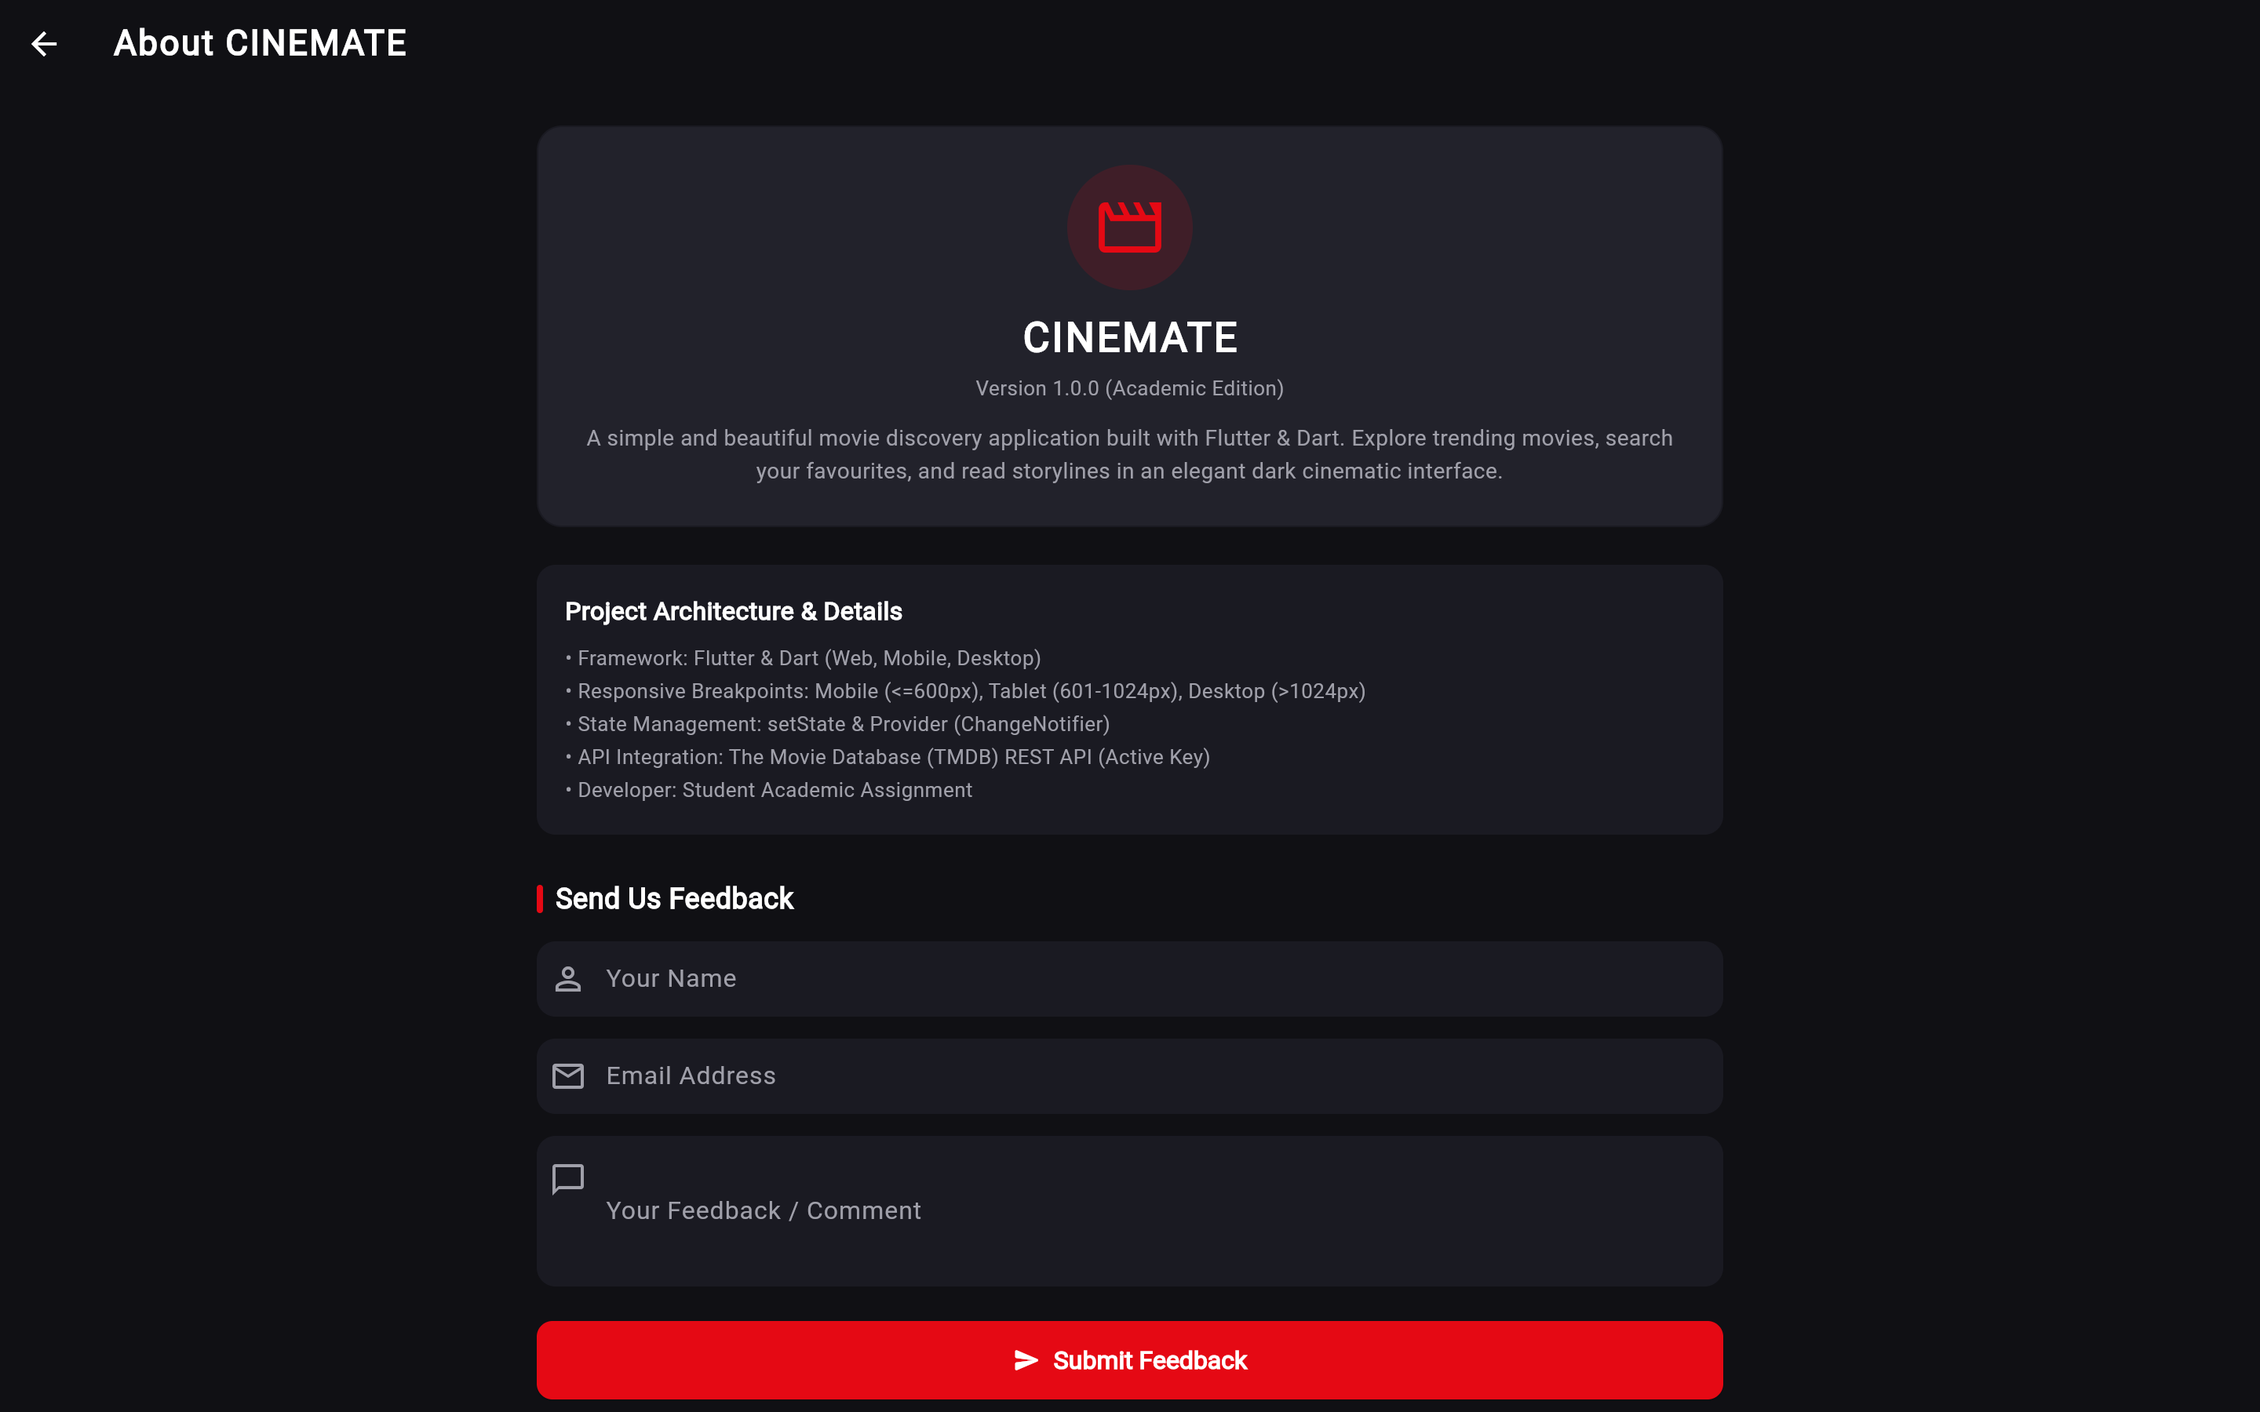
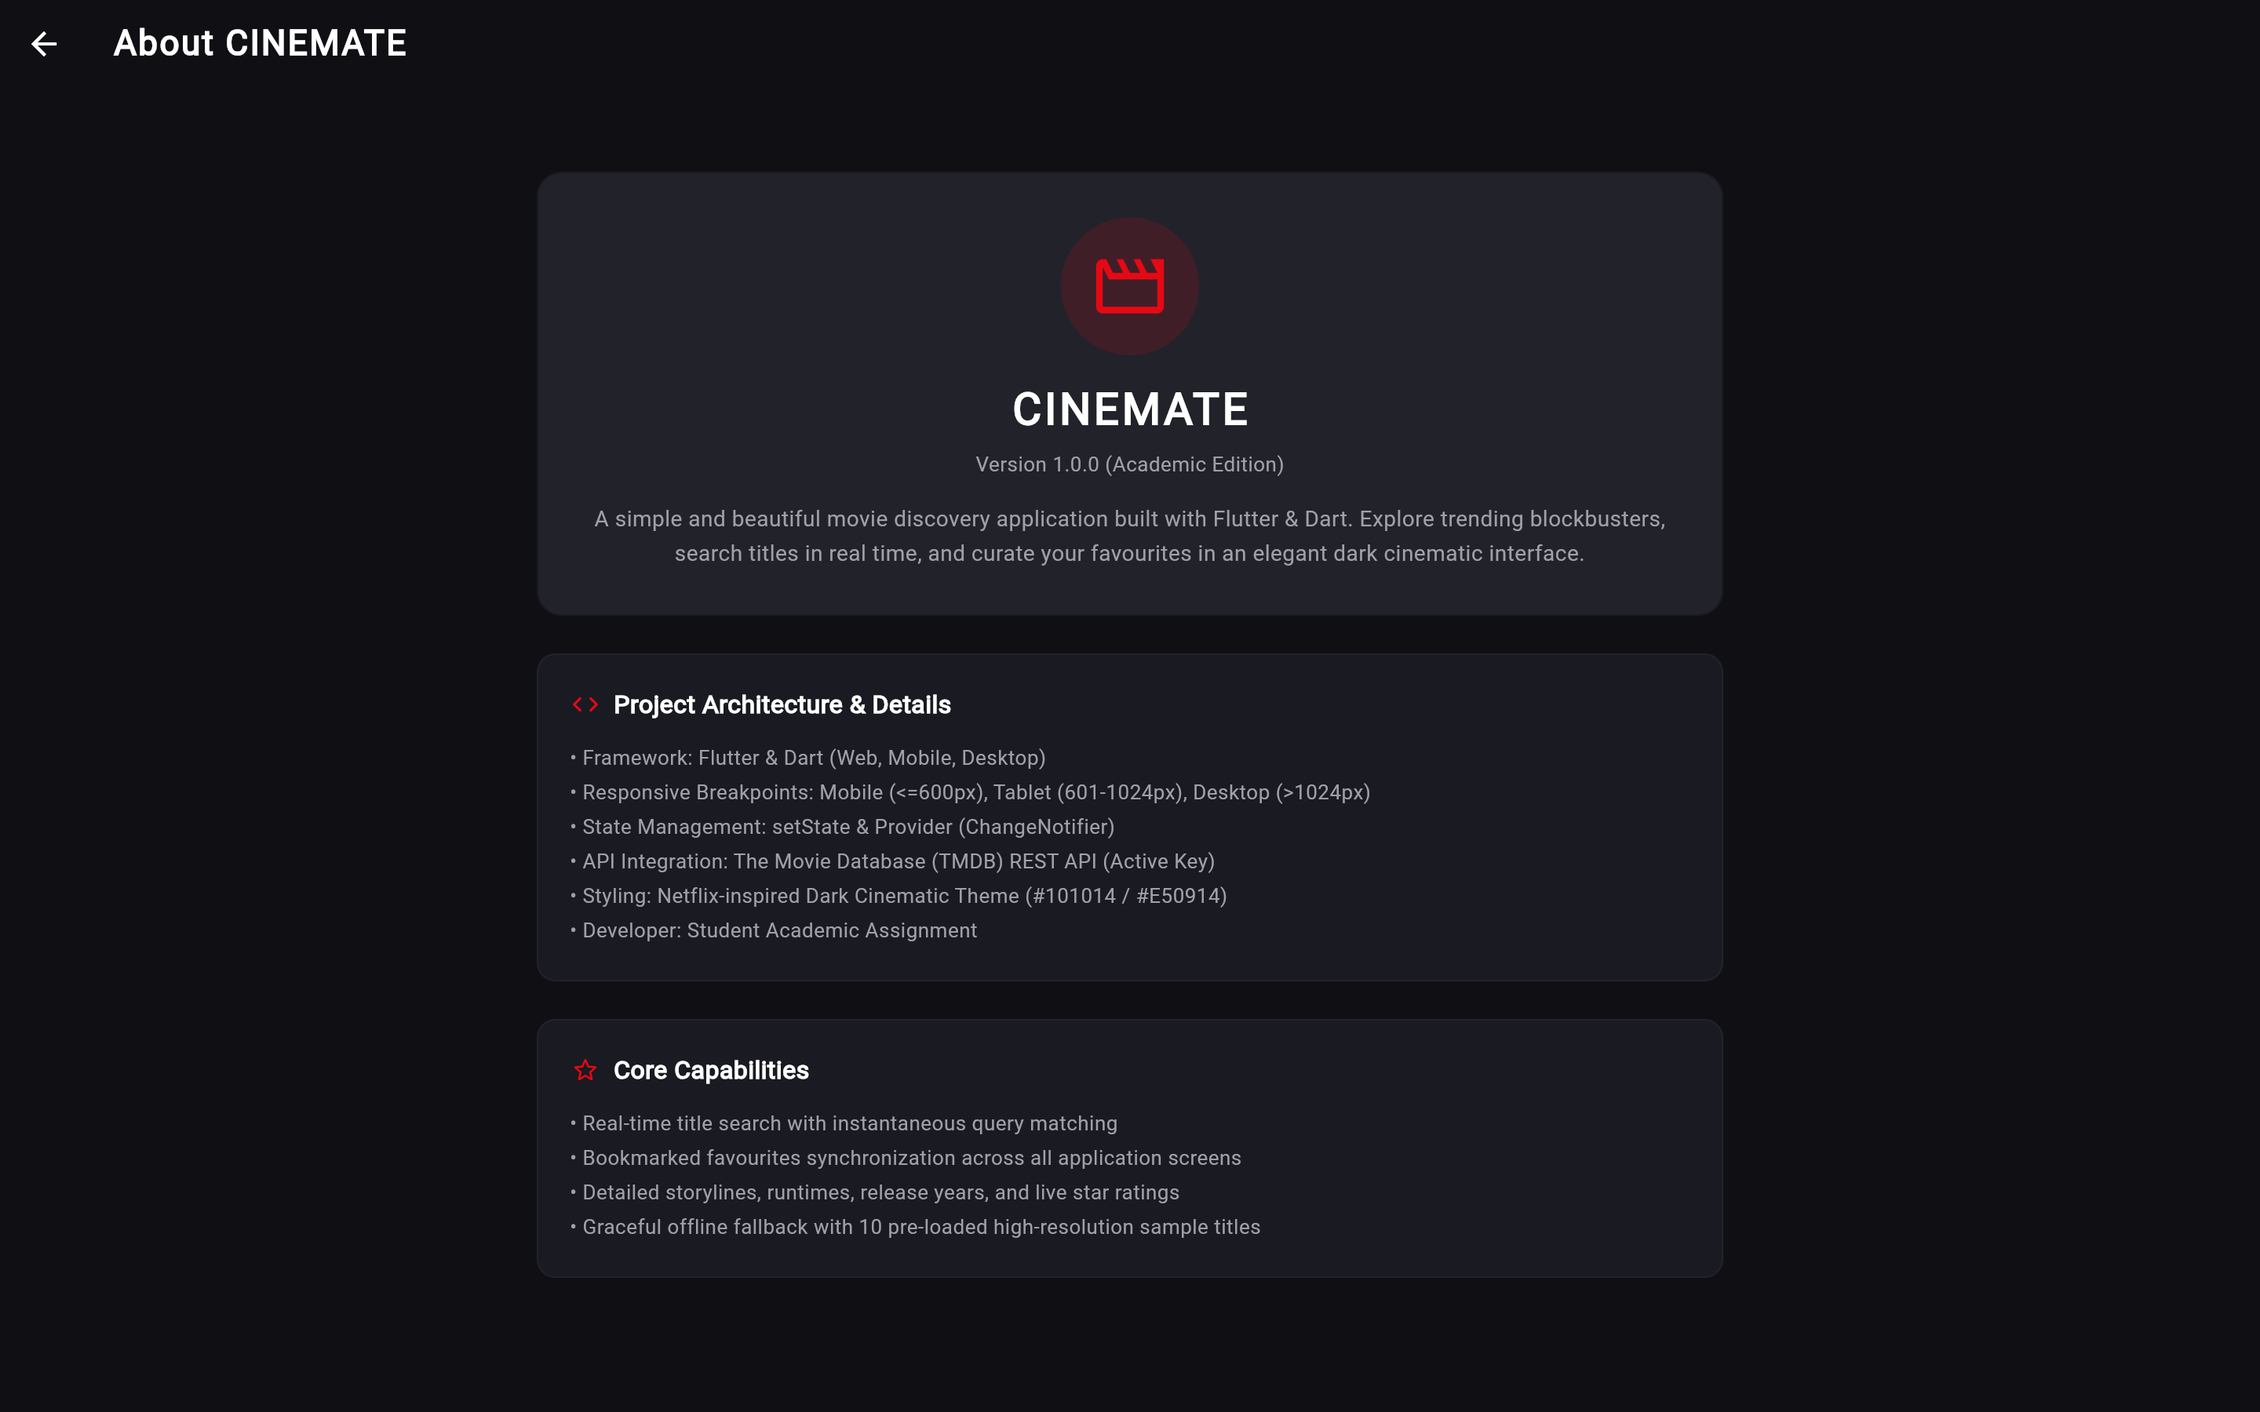
Remove feedback form from About screen and update navigation and screenshots

Changed region(s): [[0.25, 0.1244, 0.7188, 0.7156], [0.2188, 0.9333, 0.7812, 0.9956], [0.25, 0.7467, 0.5312, 0.8711]]

diff --git a/lib/screens/about_screen.dart b/lib/screens/about_screen.dart
@@ -1,54 +1,16 @@
 import 'package:flutter/material.dart';
 import '../theme/app_theme.dart';
 
-/// AboutScreen with 3-Level Responsive Design and Form Validation.
+/// AboutScreen displays app branding and academic project details.
 /// 
 /// Demonstrates:
+/// - StatelessWidget
 /// - Constrained layout for desktop (max 800px)
-/// - Form, GlobalKey<FormState>, and TextEditingControllers
-/// - Input validation (required field, email regex)
-/// - SnackBar user feedback
-class AboutScreen extends StatefulWidget {
+/// - Clean card hierarchy and dark cinematic styling
+class AboutScreen extends StatelessWidget {
   static const String routeName = '/about';
 
   const AboutScreen({super.key});
-
-  @override
-  State<AboutScreen> createState() => _AboutScreenState();
-}
-
-class _AboutScreenState extends State<AboutScreen> {
-  final _formKey = GlobalKey<FormState>();
-  final _nameController = TextEditingController();
-  final _emailController = TextEditingController();
-  final _feedbackController = TextEditingController();
-
-  void _submitFeedback() {
-    if (_formKey.currentState!.validate()) {
-      final name = _nameController.text.trim();
-      ScaffoldMessenger.of(context).showSnackBar(
-        SnackBar(
-          content: Text('Thank you $name! Your feedback has been received.'),
-          backgroundColor: Colors.green[800],
-          behavior: SnackBarBehavior.floating,
-        ),
-      );
-
-      _nameController.clear();
-      _emailController.clear();
-      _feedbackController.clear();
-      _formKey.currentState!.reset();
-      FocusScope.of(context).unfocus();
-    }
-  }
-
-  @override
-  void dispose() {
-    _nameController.dispose();
-    _emailController.dispose();
-    _feedbackController.dispose();
-    super.dispose();
-  }
 
   @override
   Widget build(BuildContext context) {
@@ -75,7 +37,7 @@ class _AboutScreenState extends State<AboutScreen> {
                 // App Branding Banner
                 Container(
                   width: double.infinity,
-                  padding: const EdgeInsets.all(24),
+                  padding: const EdgeInsets.all(28),
                   decoration: BoxDecoration(
                     color: AppTheme.cardColor,
                     borderRadius: BorderRadius.circular(16),
@@ -84,28 +46,28 @@ class _AboutScreenState extends State<AboutScreen> {
                   child: Column(
                     children: [
                       Container(
-                        padding: const EdgeInsets.all(16),
+                        padding: const EdgeInsets.all(18),
                         decoration: BoxDecoration(
                           color: AppTheme.primaryAccent.withValues(alpha: 0.15),
                           shape: BoxShape.circle,
                         ),
                         child: const Icon(
                           Icons.movie_creation_outlined,
-                          size: 48,
+                          size: 52,
                           color: AppTheme.primaryAccent,
                         ),
                       ),
-                      const SizedBox(height: 12),
+                      const SizedBox(height: 14),
                       const Text(
                         'CINEMATE',
                         style: TextStyle(
                           color: AppTheme.primaryText,
-                          fontSize: 26,
+                          fontSize: 28,
                           fontWeight: FontWeight.bold,
-                          letterSpacing: 1.5,
+                          letterSpacing: 2.0,
                         ),
                       ),
-                      const SizedBox(height: 4),
+                      const SizedBox(height: 6),
                       const Text(
                         'Version 1.0.0 (Academic Edition)',
                         style: TextStyle(
@@ -113,15 +75,15 @@ class _AboutScreenState extends State<AboutScreen> {
                           fontSize: 13,
                         ),
                       ),
-                      const SizedBox(height: 12),
+                      const SizedBox(height: 14),
                       const Text(
                         'A simple and beautiful movie discovery application built with Flutter & Dart. '
-                        'Explore trending movies, search your favourites, and read storylines in an elegant dark cinematic interface.',
+                        'Explore trending blockbusters, search titles in real time, and curate your favourites in an elegant dark cinematic interface.',
                         textAlign: TextAlign.center,
                         style: TextStyle(
                           color: AppTheme.secondaryText,
                           fontSize: 14,
-                          height: 1.5,
+                          height: 1.6,
                         ),
                       ),
                     ],
@@ -129,151 +91,93 @@ class _AboutScreenState extends State<AboutScreen> {
                 ),
                 const SizedBox(height: 24),
 
-                // Developer / College Info Card
+                // Project Architecture & Details
                 Container(
                   width: double.infinity,
-                  padding: const EdgeInsets.all(18),
+                  padding: const EdgeInsets.all(20),
                   decoration: BoxDecoration(
                     color: AppTheme.secondaryBackground,
                     borderRadius: BorderRadius.circular(12),
+                    border: Border.all(color: AppTheme.cardColor),
                   ),
                   child: const Column(
                     crossAxisAlignment: CrossAxisAlignment.start,
                     children: [
-                      Text(
-                        'Project Architecture & Details',
-                        style: TextStyle(
-                          color: AppTheme.primaryText,
-                          fontSize: 16,
-                          fontWeight: FontWeight.bold,
-                        ),
+                      Row(
+                        children: [
+                          Icon(Icons.code_rounded, color: AppTheme.primaryAccent, size: 20),
+                          SizedBox(width: 8),
+                          Text(
+                            'Project Architecture & Details',
+                            style: TextStyle(
+                              color: AppTheme.primaryText,
+                              fontSize: 16,
+                              fontWeight: FontWeight.bold,
+                            ),
+                          ),
+                        ],
                       ),
-                      SizedBox(height: 8),
+                      SizedBox(height: 12),
                       Text(
                         '• Framework: Flutter & Dart (Web, Mobile, Desktop)\n'
                         '• Responsive Breakpoints: Mobile (<=600px), Tablet (601-1024px), Desktop (>1024px)\n'
                         '• State Management: setState & Provider (ChangeNotifier)\n'
                         '• API Integration: The Movie Database (TMDB) REST API (Active Key)\n'
+                        '• Styling: Netflix-inspired Dark Cinematic Theme (#101014 / #E50914)\n'
                         '• Developer: Student Academic Assignment',
                         style: TextStyle(
                           color: AppTheme.secondaryText,
                           fontSize: 13,
-                          height: 1.6,
+                          height: 1.7,
                         ),
                       ),
                     ],
                   ),
                 ),
-                const SizedBox(height: 28),
+                const SizedBox(height: 24),
 
-                // Feedback Form Section
-                Align(
-                  alignment: Alignment.centerLeft,
-                  child: Row(
-                    children: [
-                      Container(
-                        width: 4,
-                        height: 18,
-                        decoration: BoxDecoration(
-                          color: AppTheme.primaryAccent,
-                          borderRadius: BorderRadius.circular(2),
-                        ),
-                      ),
-                      const SizedBox(width: 8),
-                      const Text(
-                        'Send Us Feedback',
-                        style: TextStyle(
-                          color: AppTheme.primaryText,
-                          fontSize: 18,
-                          fontWeight: FontWeight.bold,
-                        ),
-                      ),
-                    ],
+                // Application Highlights Card
+                Container(
+                  width: double.infinity,
+                  padding: const EdgeInsets.all(20),
+                  decoration: BoxDecoration(
+                    color: AppTheme.secondaryBackground,
+                    borderRadius: BorderRadius.circular(12),
+                    border: Border.all(color: AppTheme.cardColor),
                   ),
-                ),
-                const SizedBox(height: 14),
-
-                Form(
-                  key: _formKey,
-                  child: Column(
+                  child: const Column(
+                    crossAxisAlignment: CrossAxisAlignment.start,
                     children: [
-                      // Name Field
-                      TextFormField(
-                        controller: _nameController,
-                        style: const TextStyle(color: AppTheme.primaryText),
-                        decoration: const InputDecoration(
-                          labelText: 'Your Name',
-                          labelStyle: TextStyle(color: AppTheme.secondaryText),
-                          prefixIcon: Icon(Icons.person_outline, color: AppTheme.secondaryText),
-                        ),
-                        validator: (value) {
-                          if (value == null || value.trim().isEmpty) {
-                            return 'Please enter your name';
-                          }
-                          return null;
-                        },
-                      ),
-                      const SizedBox(height: 14),
-
-                      // Email Field
-                      TextFormField(
-                        controller: _emailController,
-                        keyboardType: TextInputType.emailAddress,
-                        style: const TextStyle(color: AppTheme.primaryText),
-                        decoration: const InputDecoration(
-                          labelText: 'Email Address',
-                          labelStyle: TextStyle(color: AppTheme.secondaryText),
-                          prefixIcon: Icon(Icons.email_outlined, color: AppTheme.secondaryText),
-                        ),
-                        validator: (value) {
-                          if (value == null || value.trim().isEmpty) {
-                            return 'Please enter your email';
-                          }
-                          final emailRegex = RegExp(r'^[\w-\.]+@([\w-]+\.)+[\w-]{2,4}$');
-                          if (!emailRegex.hasMatch(value.trim())) {
-                            return 'Please enter a valid email address';
-                          }
-                          return null;
-                        },
-                      ),
-                      const SizedBox(height: 14),
-
-                      // Feedback Field
-                      TextFormField(
-                        controller: _feedbackController,
-                        maxLines: 3,
-                        style: const TextStyle(color: AppTheme.primaryText),
-                        decoration: const InputDecoration(
-                          labelText: 'Your Feedback / Comment',
-                          labelStyle: TextStyle(color: AppTheme.secondaryText),
-                          prefixIcon: Padding(
-                            padding: EdgeInsets.only(bottom: 40),
-                            child: Icon(Icons.chat_bubble_outline, color: AppTheme.secondaryText),
+                      Row(
+                        children: [
+                          Icon(Icons.star_outline_rounded, color: AppTheme.primaryAccent, size: 20),
+                          SizedBox(width: 8),
+                          Text(
+                            'Core Capabilities',
+                            style: TextStyle(
+                              color: AppTheme.primaryText,
+                              fontSize: 16,
+                              fontWeight: FontWeight.bold,
+                            ),
                           ),
-                        ),
-                        validator: (value) {
-                          if (value == null || value.trim().isEmpty) {
-                            return 'Please enter your feedback';
-                          }
-                          return null;
-                        },
+                        ],
                       ),
-                      const SizedBox(height: 22),
-
-                      // Submit Button
-                      SizedBox(
-                        width: double.infinity,
-                        height: 50,
-                        child: ElevatedButton.icon(
-                          onPressed: _submitFeedback,
-                          icon: const Icon(Icons.send_rounded),
-                          label: const Text('Submit Feedback'),
+                      SizedBox(height: 12),
+                      Text(
+                        '• Real-time title search with instantaneous query matching\n'
+                        '• Bookmarked favourites synchronization across all application screens\n'
+                        '• Detailed storylines, runtimes, release years, and live star ratings\n'
+                        '• Graceful offline fallback with 10 pre-loaded high-resolution sample titles',
+                        style: TextStyle(
+                          color: AppTheme.secondaryText,
+                          fontSize: 13,
+                          height: 1.7,
                         ),
                       ),
                     ],
                   ),
                 ),
-                const SizedBox(height: 30),
+                const SizedBox(height: 32),
               ],
             ),
           ),

diff --git a/lib/screens/home_screen.dart b/lib/screens/home_screen.dart
@@ -118,7 +118,7 @@ class _HomeScreenState extends State<HomeScreen> {
               const SizedBox(width: 8),
               TextButton.icon(
                 icon: const Icon(Icons.info_outline, color: AppTheme.primaryText, size: 18),
-                label: const Text('About & Feedback', style: TextStyle(color: AppTheme.primaryText)),
+                label: const Text('About', style: TextStyle(color: AppTheme.primaryText)),
                 onPressed: () => Navigator.pushNamed(context, AboutScreen.routeName),
               ),
               const SizedBox(width: 24),
